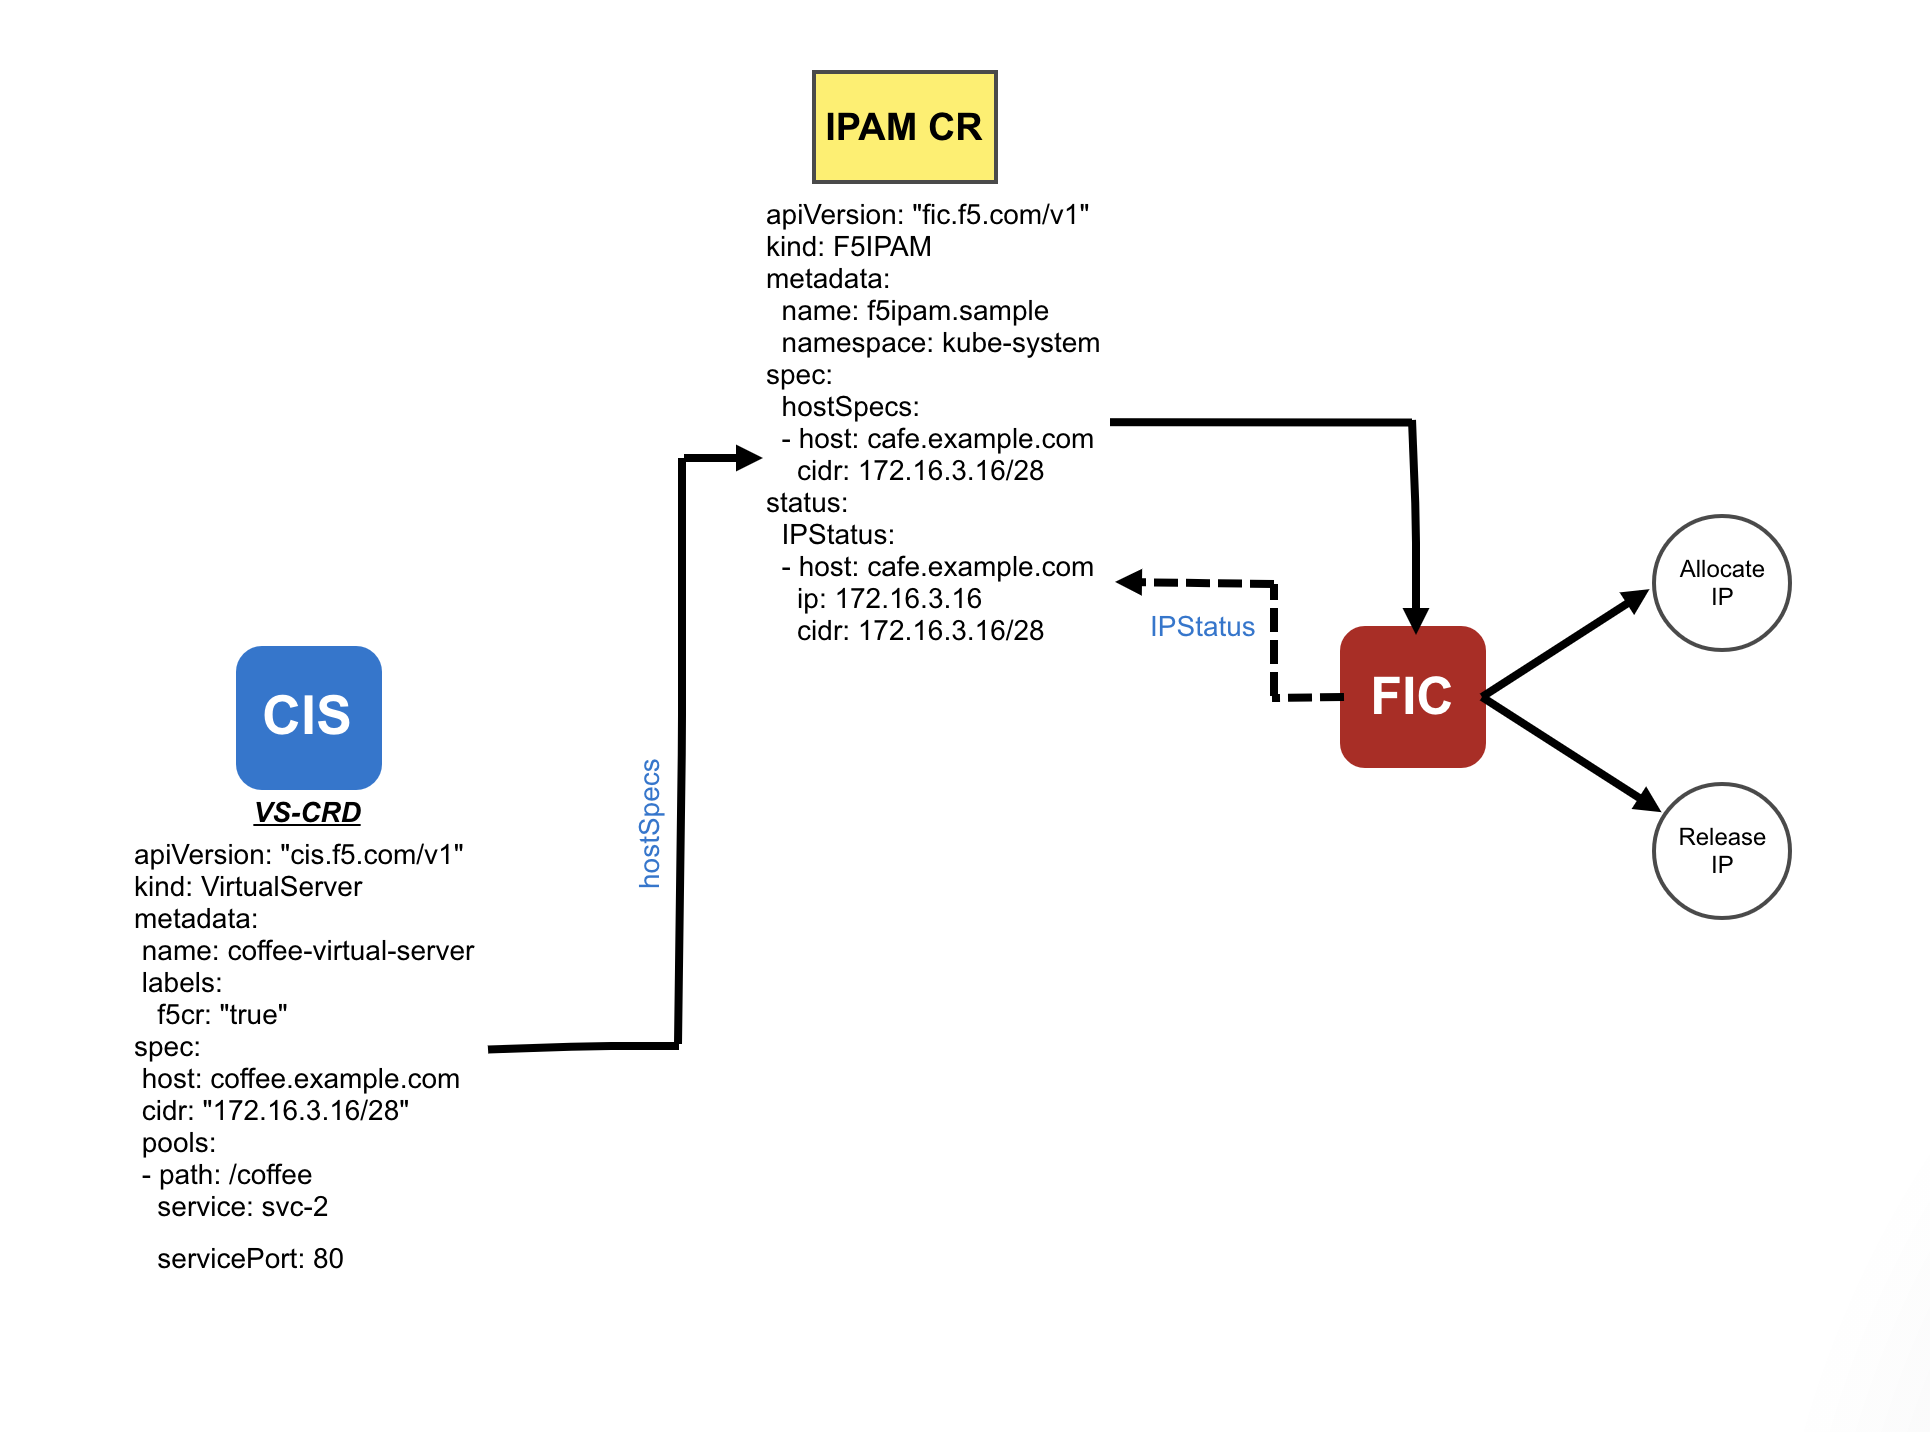
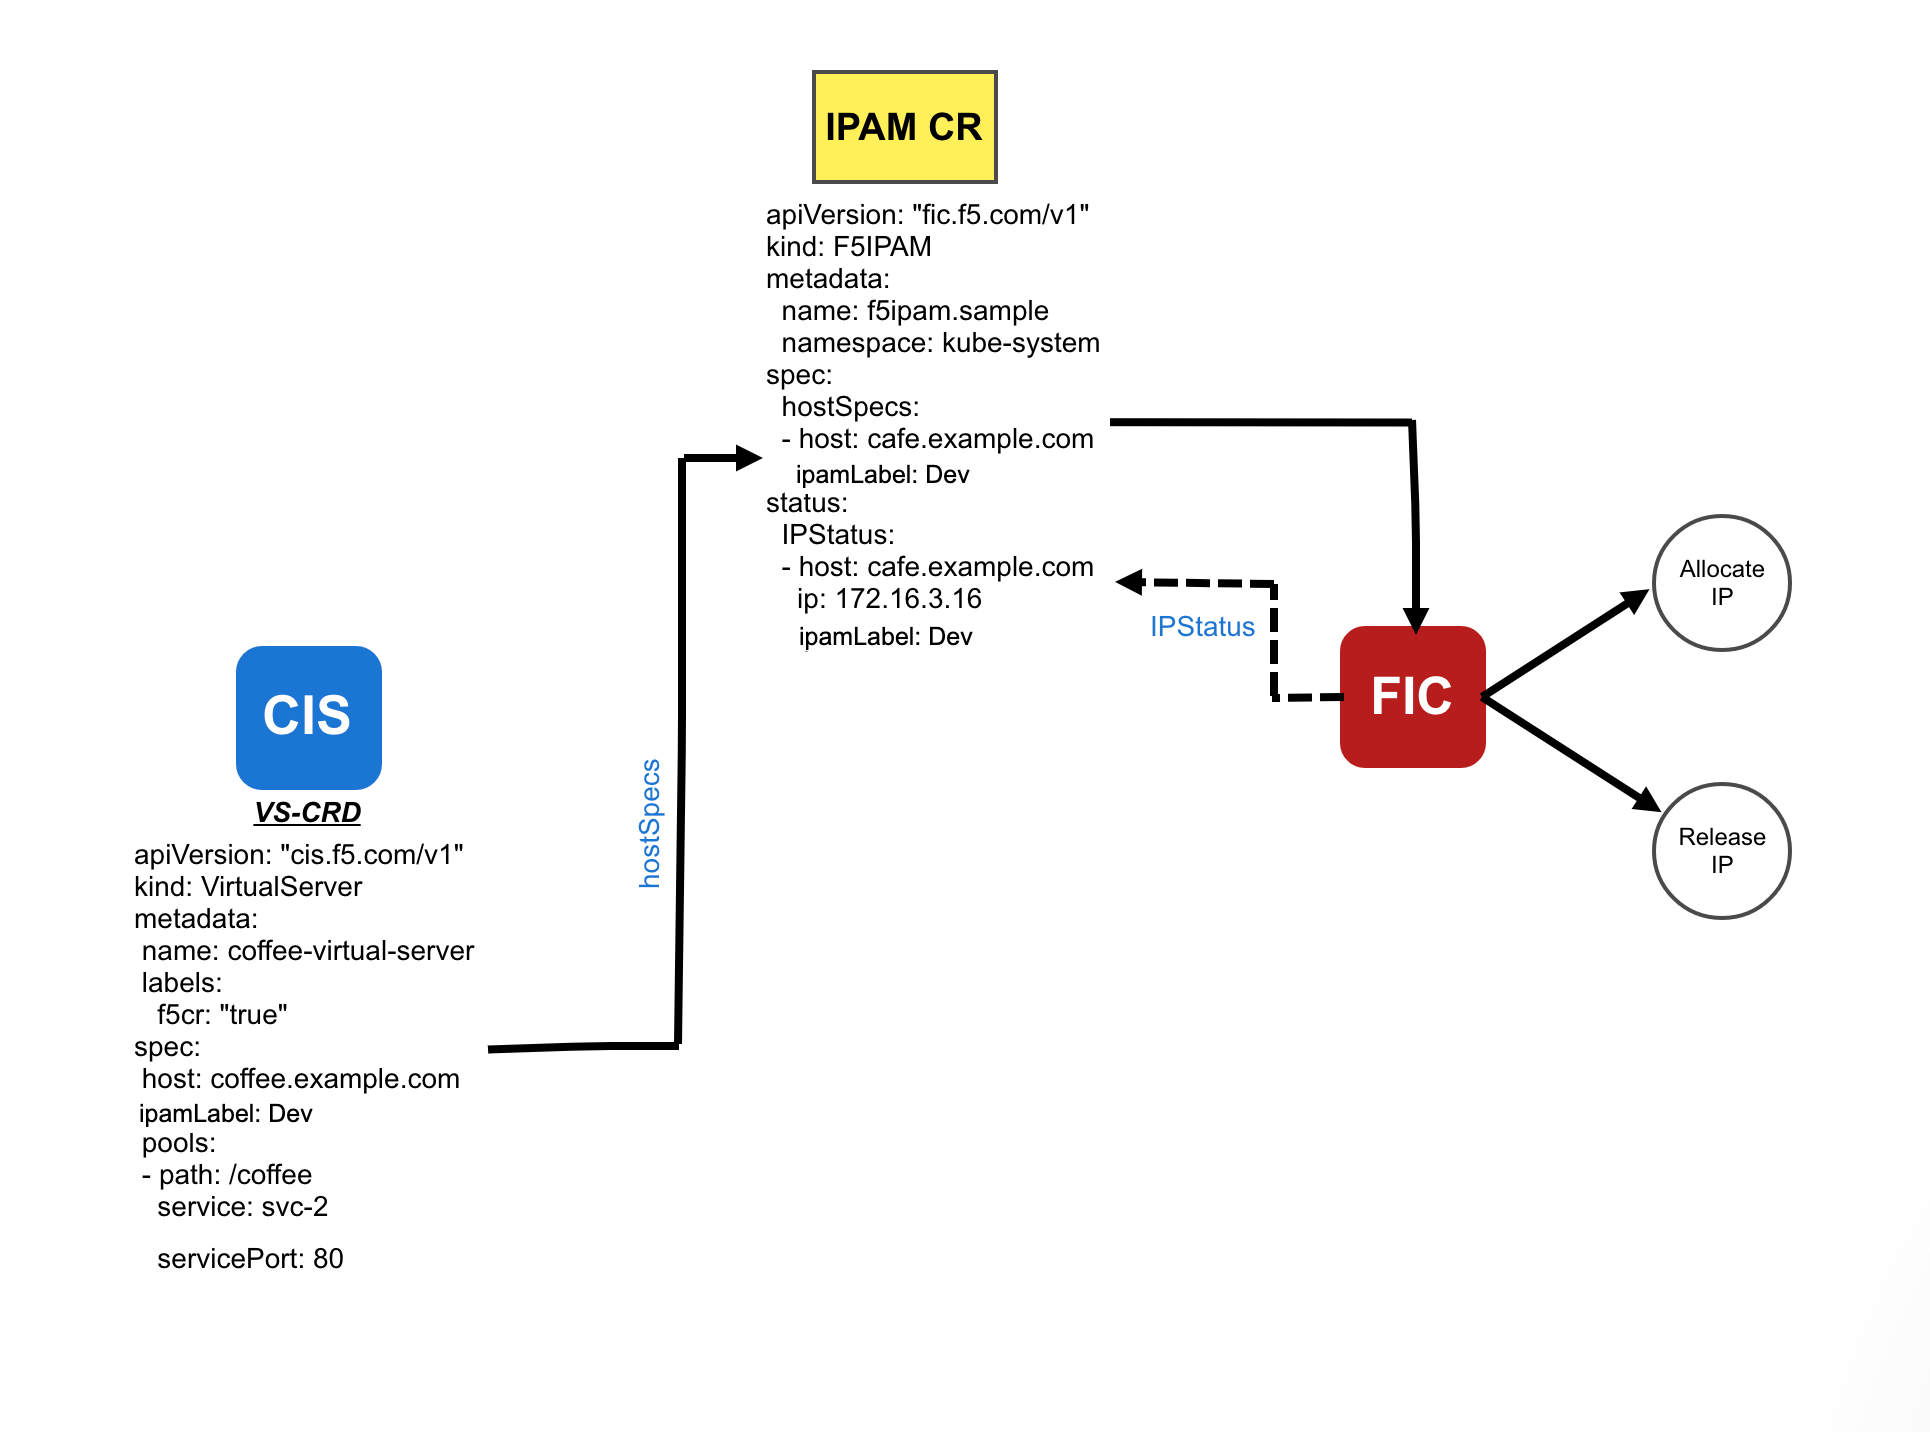
readme update

diff --git a/README.md b/README.md
@@ -47,7 +47,7 @@ metadata:
   name: ipam-ctlr-clusterrole
 rules:
   - apiGroups: ["fic.f5.com"]
-    resources: ["f5ipams"]
+    resources: ["f5ipams,"f5ipams/status"]
     verbs: ["get", "list", "watch", "update", "patch"]
 ---
 kind: ClusterRoleBinding
@@ -95,7 +95,7 @@ spec:
       containers:
       - args:
         - --orchestration=kubernetes
-        - --ip-range="10.192.75.111/24-10.192.75.115/24"
+        - --ip-range={"Dev":"172.16.3.21-172.16.3.30","Test":"172.  16.3.31-172.16.3.40", "Production":"172.16.3.41-172.16.3.50","Default":"172.16.3.51-172.16.3.60"}'
         - --log-level=DEBUG
         command:
         - /app/bin/f5-ipam-controller
@@ -118,11 +118,13 @@ kubectl create -f f5-ipam-deployment.yaml
 
 ### Configuring CIS to work with F5 IPAM Controller
 
-To configure CIS to work with the F5 IPAM controller, the user needs to give a parameter ```--ipam=true``` in the CIS deployment and also provide a parameter ```cidr``` in the virtual server CRD.
+To configure CIS to work with the F5 IPAM controller, the user needs to provide a parameter --ipam=true in the CIS deployment and also provide a parameter ipamLabel in the Kubernetes resource.
+
+#### Note: ipamLabel can have values as mentioned in the ip-range parameter in the deployment.
 
 #### Examples
 
-**Virtual Server CRD**
+**Virtual Server CR**
 
 ```
 apiVersion: "cis.f5.com/v1"
@@ -133,11 +135,36 @@ metadata:
    f5cr: "true"
 spec:
  host: coffee.example.com
- cidr: "10.192.75.111/24"
+ ipamLabel: Dev
  pools:
  - path: /coffee
    service: svc-2
    servicePort: 80
+```
+
+
+**Tansport Server CR**
+
+```
+  apiVersion: cis.f5.com/v1
+  kind: TransportServer
+  metadata:
+    generation: 2
+    labels:
+      f5cr: "true"
+  spec:
+    ipamLabel: Test
+    mode: standard
+    pool:
+      monitor:
+        interval: 20
+        timeout: 10
+        type: tcp
+      service: test-svc
+      servicePort: 1344
+    snat: auto
+    type: tcp
+    virtualServerPort: 1344
 ```
 
 **CIS Deployment with ipam enabled**
@@ -177,60 +204,14 @@ spec:
 
 
 #### NOTE: 
-- If the user provides the parameter ```--ipam=true``` in the CIS deployment then it is mandatory to provide the CIDR parameter in VS CRD to leverage the the IPAM Controller.
-- If a VirtualServer Address is specified in the resource, CIS don't leverage the IPAM Controller even if a  CIDR parameter is specified
-- If No VirtualServer Address is specified in the resource and a CIDR parameter is specified, CIS leverage the IPAM Controller for VS address.
+- If the user provides the parameter --ipam=true in the CIS deployment, then CIS decides if it needs to retrieve an IP Address from the IPAM Controller or not 
 
-### Updating the Status in Virtual Server CRD
+- If a VirtualServer Address is specified in the Kubernetes resource, CIS will not leverage the IPAM Controller for IP address even if a ipamLabel parameter is specified.
 
-
-The main aim of IPAM is to provide an IP address corresponding to each hostname provided in the VS CRD.
-
-The user needs to mandatorily provide the host and CIDR in the hostSpecs section of F5-CR. The F5 IPAM Controller, in turn, reads the hostSpecs of CR, processes it, and updates the IPStatus with each host provided in the hostSpecs with host, IP(which is generated from the range of IP address by FIC), and corresponding CIDR.
-
-- F5-ipam-controller (FIC) acts as a communication channel for updating the host, IP, and CIDR in VS CRD.
-
-Below is the example: 
-
-- f5-ipam-cr.yaml
-
-```
-apiVersion: "fic.f5.com/v1"
-kind: F5IPAM
-metadata:
-  name: f5ipam.sample
-  namespace: kube-system
-spec:
-  hostSpecs:
-  - host: cafe.example.com
-    cidr: 10.192.75.111/24
-  - host: tea.example.com
-    cidr: 10.192.75.111/24
-status:
-  IPStatus:
-  - host: cafe.example.com
-    ip: 10.192.75.112
-    cidr: 10.192.75.111/24
-  - host: tea.example.com
-    ip: 10.192.75.114
-    cidr: 10.192.75.111/24
-```
-
- ### Limitations
-
-1. Single IPAM Controller does not work with multiple CIS deployment.
-2. Sometime IPAM missed to allocate an IP for a domain when CIS is restarted.
-3. Sometime IPAM fails to allocate new IP address when CIDR is updated.
-
-For 2 and 3:  
-Mitigation: In this case the user can delete the F5-IPAM custom resource from kube-system named `"ipam.<Partition_Name>"` and restart both the controller.
-
-`kubectl delete f5ipam ipam.<Partition_Name> -n kube-system`
+- If No VirtualServer Address is specified in the Kubernetes resource and ipamLabel parameter is specified, CIS will leverage the IPAM Controller for allocation of IP address.
 
 
-### Known Issue
-- Observing error log when IPAM is not enabled in CIS.
+### Known Issues
 
-`[ERROR] [ipam] error while retriving IPAM namespace and name.`
-
-- IPAM Controller logs does not contain any build information
+- FIC does not allocate the last IP address specified in the ip     range.
+- Updating the --ip-range in FIC deployment is an issue.
